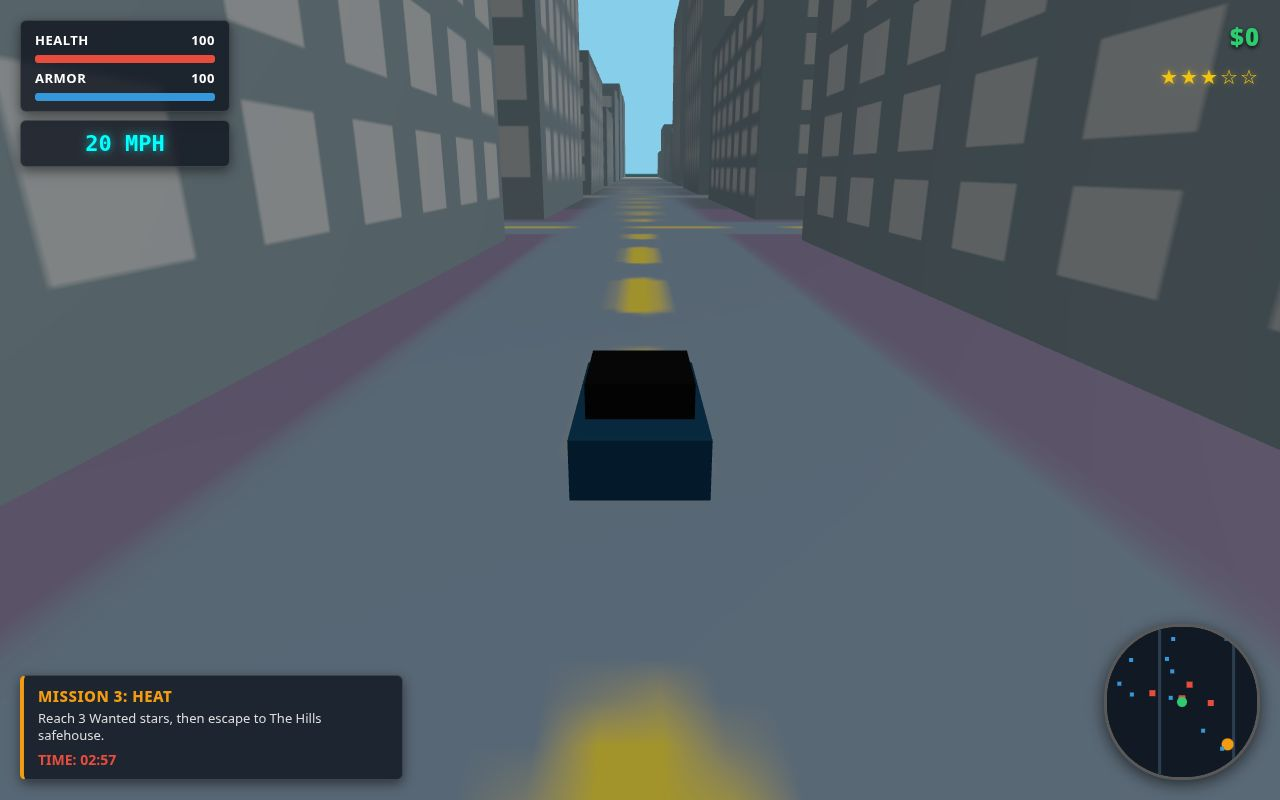
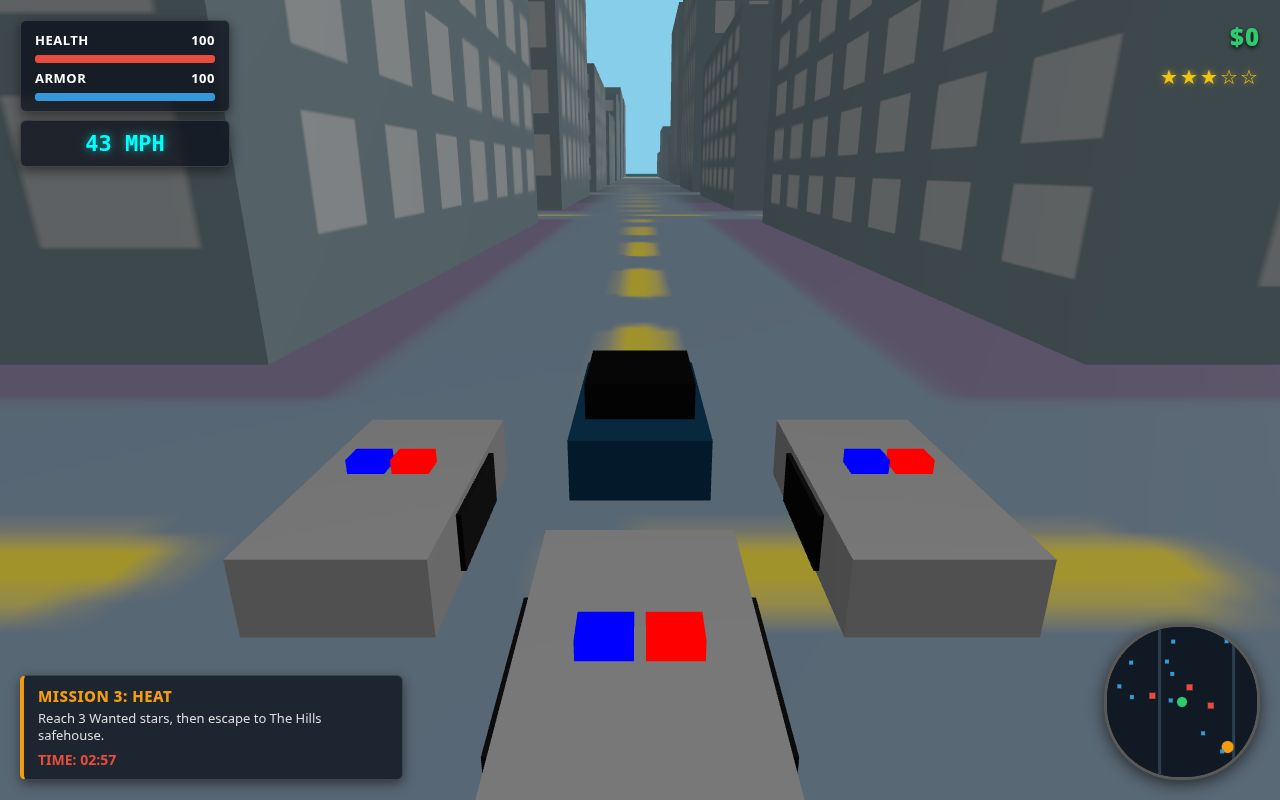
Port Azahar 3D v6f: freeze player movement in shot mode

diff --git a/game/src/main.js b/game/src/main.js
@@ -313,24 +313,28 @@ function update(dt) {
   if (gameState.inVehicle) {
     document.getElementById('speedo-panel').classList.remove('hidden');
     // Car Physics
-    if (input.isDown('KeyW') || input.isDown('ArrowUp')) {
-      gameState.vehicle.speed = Math.min(gameState.vehicle.speed + 15 * dt, 45);
-      audio.playEngine(gameState.vehicle.speed / 45);
-    } else if (input.isDown('KeyS') || input.isDown('ArrowDown')) {
-      gameState.vehicle.speed = Math.max(gameState.vehicle.speed - 20 * dt, -15);
-    } else {
-      gameState.vehicle.speed *= 0.98; // friction
+    if (!gameState.shotMode) {
+      if (input.isDown('KeyW') || input.isDown('ArrowUp')) {
+        gameState.vehicle.speed = Math.min(gameState.vehicle.speed + 15 * dt, 45);
+        audio.playEngine(gameState.vehicle.speed / 45);
+      } else if (input.isDown('KeyS') || input.isDown('ArrowDown')) {
+        gameState.vehicle.speed = Math.max(gameState.vehicle.speed - 20 * dt, -15);
+      } else {
+        gameState.vehicle.speed *= 0.98; // friction
+      }
+
+      if (input.isDown('KeyA') || input.isDown('ArrowLeft')) {
+        gameState.vehicle.rot += rotSpeed * (gameState.vehicle.speed / 20);
+      }
+      if (input.isDown('KeyD') || input.isDown('ArrowRight')) {
+        gameState.vehicle.rot -= rotSpeed * (gameState.vehicle.speed / 20);
+      }
     }
 
-    if (input.isDown('KeyA') || input.isDown('ArrowLeft')) {
-      gameState.vehicle.rot += rotSpeed * (gameState.vehicle.speed / 20);
+    if (!gameState.shotMode) {
+      gameState.vehicle.x += Math.sin(gameState.vehicle.rot) * gameState.vehicle.speed * dt;
+      gameState.vehicle.z += Math.cos(gameState.vehicle.rot) * gameState.vehicle.speed * dt;
     }
-    if (input.isDown('KeyD') || input.isDown('ArrowRight')) {
-      gameState.vehicle.rot -= rotSpeed * (gameState.vehicle.speed / 20);
-    }
-
-    gameState.vehicle.x += Math.sin(gameState.vehicle.rot) * gameState.vehicle.speed * dt;
-    gameState.vehicle.z += Math.cos(gameState.vehicle.rot) * gameState.vehicle.speed * dt;
 
     carGroup.position.set(gameState.vehicle.x, 0, gameState.vehicle.z);
     carGroup.rotation.y = gameState.vehicle.rot;
@@ -354,19 +358,21 @@ function update(dt) {
     document.getElementById('speedo-panel').classList.add('hidden');
     // On foot movement
     let spd = moveSpeed * (input.isDown('ShiftLeft') ? 1.8 : 1.0);
-    if (input.isDown('KeyW') || input.isDown('ArrowUp')) {
-      gameState.player.x += Math.sin(gameState.player.rot) * spd;
-      gameState.player.z += Math.cos(gameState.player.rot) * spd;
-    }
-    if (input.isDown('KeyS') || input.isDown('ArrowDown')) {
-      gameState.player.x -= Math.sin(gameState.player.rot) * spd * 0.6;
-      gameState.player.z -= Math.cos(gameState.player.rot) * spd * 0.6;
-    }
-    if (input.isDown('KeyA') || input.isDown('ArrowLeft')) {
-      gameState.player.rot += rotSpeed * 1.5;
-    }
-    if (input.isDown('KeyD') || input.isDown('ArrowRight')) {
-      gameState.player.rot -= rotSpeed * 1.5;
+    if (!gameState.shotMode) {
+      if (input.isDown('KeyW') || input.isDown('ArrowUp')) {
+        gameState.player.x += Math.sin(gameState.player.rot) * spd;
+        gameState.player.z += Math.cos(gameState.player.rot) * spd;
+      }
+      if (input.isDown('KeyS') || input.isDown('ArrowDown')) {
+        gameState.player.x -= Math.sin(gameState.player.rot) * spd * 0.6;
+        gameState.player.z -= Math.cos(gameState.player.rot) * spd * 0.6;
+      }
+      if (input.isDown('KeyA') || input.isDown('ArrowLeft')) {
+        gameState.player.rot += rotSpeed * 1.5;
+      }
+      if (input.isDown('KeyD') || input.isDown('ArrowRight')) {
+        gameState.player.rot -= rotSpeed * 1.5;
+      }
     }
 
     playerGroup.position.set(gameState.player.x, 0, gameState.player.z);
